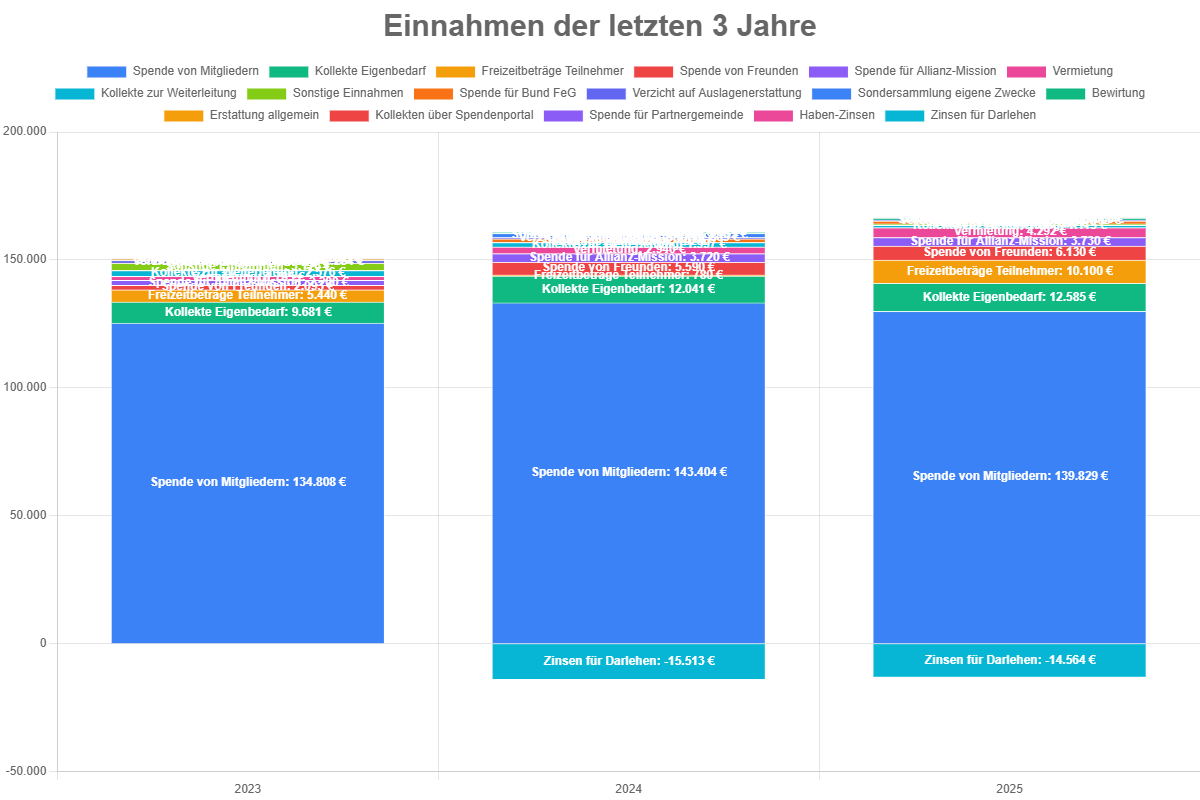
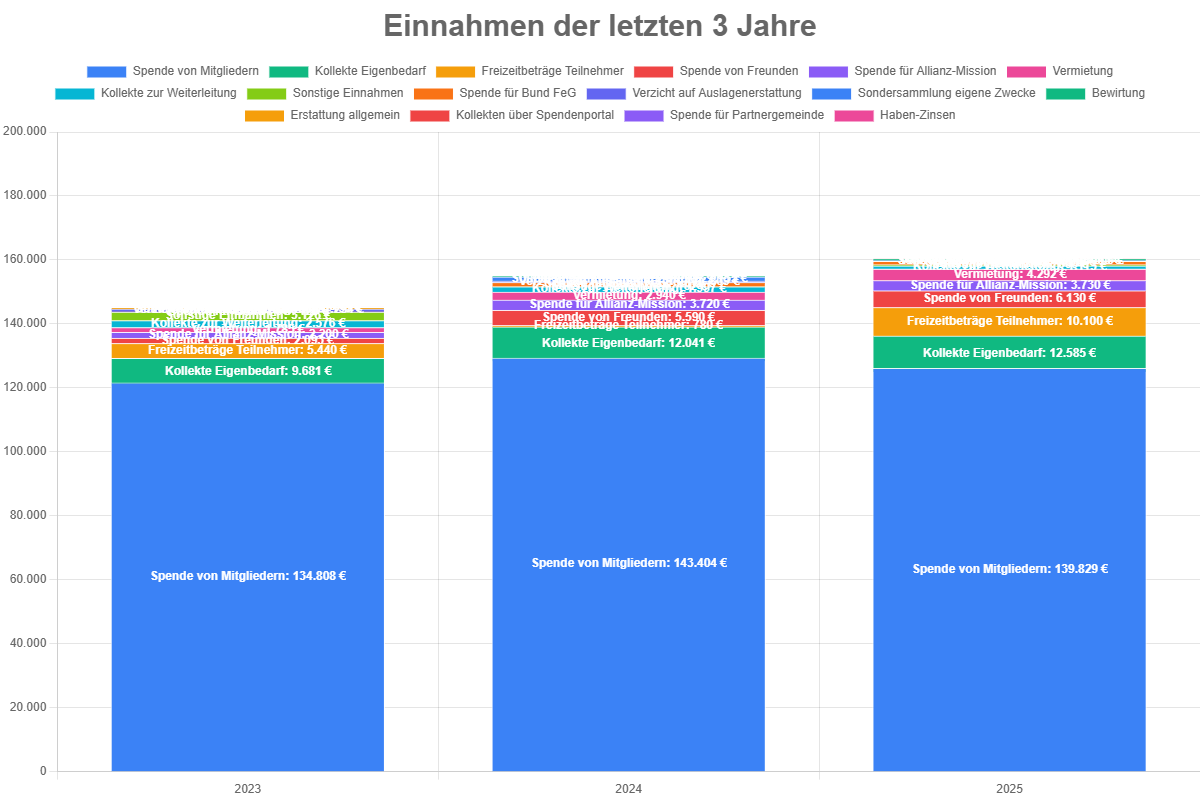
fix: Zinsen für Darlehen erscheinen nicht mehr bei den EInnahmenbalkendiagramm

diff --git a/lib/generate-einnahmen-chart.js b/lib/generate-einnahmen-chart.js
@@ -19,6 +19,8 @@ async function generateEinnahmenChartPlaywright(reportYear, options = {}) {
   const years = Object.keys(data).sort();
   const categoryTotals = {};
   years.forEach(y => { const row = data[y] || {}; Object.entries(row).forEach(([cat, val]) => { categoryTotals[cat] = (categoryTotals[cat] || 0) + Number(val || 0); }); });
+  // Remove non-income rows that may appear in the income JSON (e.g., Zinsen für Darlehen)
+  if (Object.prototype.hasOwnProperty.call(categoryTotals, 'Zinsen für Darlehen')) delete categoryTotals['Zinsen für Darlehen'];
   const hasSonstiges = Object.prototype.hasOwnProperty.call(categoryTotals, 'Sonstiges');
   if (hasSonstiges) delete categoryTotals['Sonstiges'];
   const sortedCats = Object.entries(categoryTotals).sort((a,b)=>b[1]-a[1]).map(e=>e[0]);

diff --git a/Daten/result/Einnahmen_2025.html b/Daten/result/Einnahmen_2025.html
@@ -196,18 +196,6 @@
       "borderColor": "#ffffff",
       "borderWidth": 1,
       "stack": "stack1"
-    },
-    {
-      "label": "Zinsen für Darlehen",
-      "data": [
-        0,
-        -15513,
-        -14564
-      ],
-      "backgroundColor": "#06B6D4",
-      "borderColor": "#ffffff",
-      "borderWidth": 1,
-      "stack": "stack1"
     }
   ]
 },"options":{"indexAxis":"x","plugins":{"title":{
